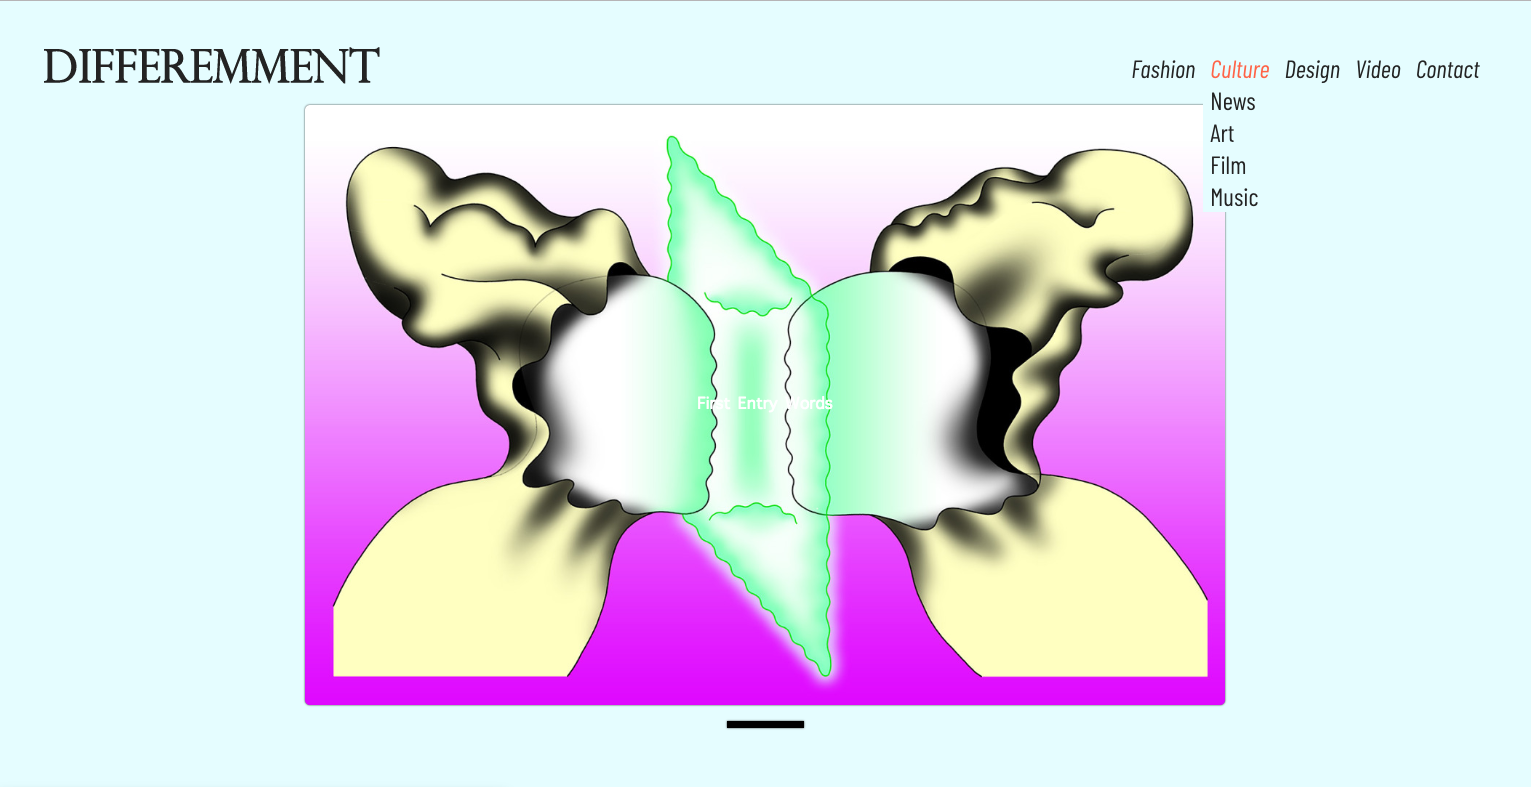
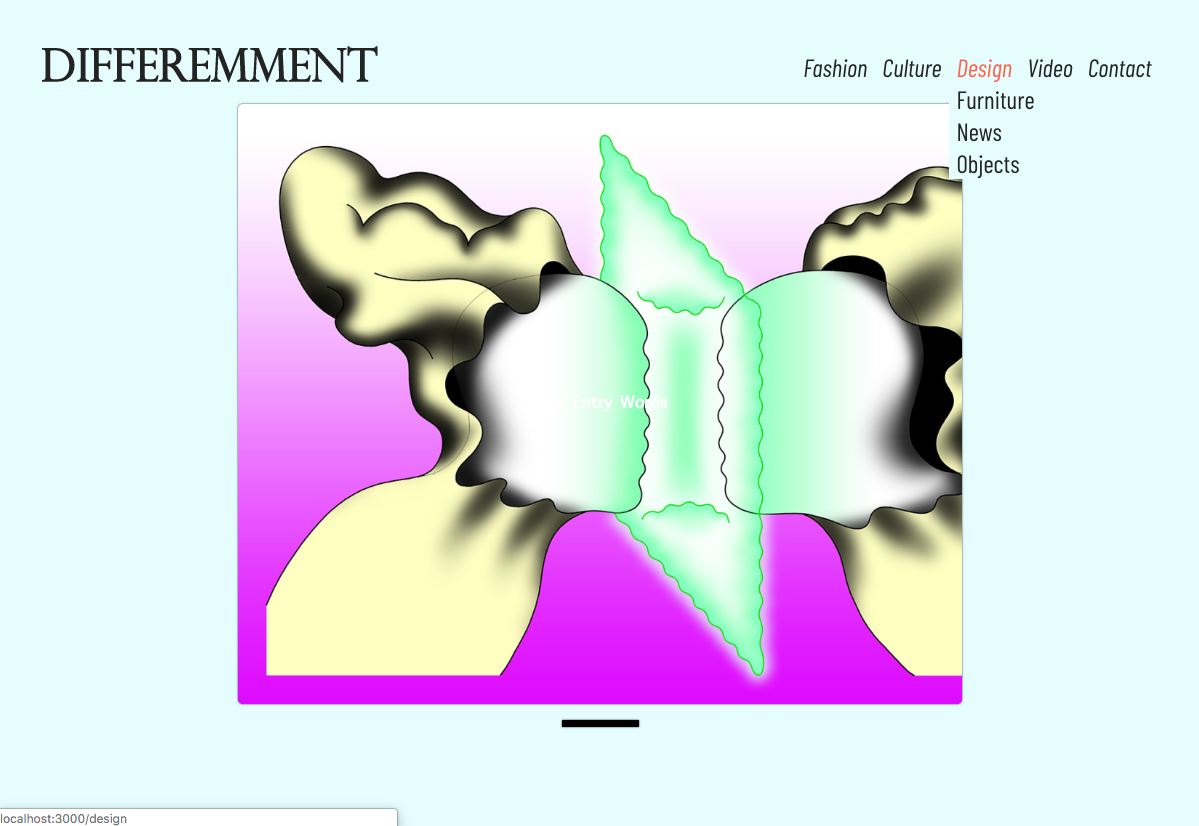
changed image dimensions for mobile view

diff --git a/src/pages/dev.js b/src/pages/dev.js
@@ -18,11 +18,11 @@ const Header = styled.header`
   font-size: 1.7rem;
   color: inherit;
   text-decoration: none;
-  @media (max-width: 800px) {
+  /* @media (max-width: 800px) {
     position: absolute;
     top: 0;
     left: 0;
-  }
+  } */
 `
 const Homelink = styled(props => <Link {...props} />)`
   text-decoration: none;
@@ -108,6 +108,7 @@ const Caption = styled.figcaption`
   -moz-osx-font-smoothing: grayscale;
   @media (max-width: 800px) {
     margin-bottom: 0;
+    padding: 0.5rem;
   }
 `
 
@@ -296,7 +297,7 @@ const dev = () => {
                 D.JASIULEVIČIŪTĖ, APRIL 2019
               </p>
               <StyledLinks href="http://festivaldrift.com">
-                festivaldrift.com
+                festivaldrift.nl
               </StyledLinks>
             </Caption>
           </Wrapper>

diff --git a/src/pages/index.js b/src/pages/index.js
@@ -62,20 +62,21 @@ const Container = styled.div`
 
 const MobTextWrapper = styled.div`
   max-width: 60vw;
-  margin: 10rem auto;
-  display: flex;
+  position: absolute;
+  bottom: 2rem;
   align-items: center;
   justify-content: center;
   background-color: silver;
+  opacity: 0.5;
+  transform: translateX(33%);
+  padding: 0.9rem;
+  border-radius: 5rem;
 `
 
 const MobText = styled.div`
-  line-height: 5rem;
-  margin-top: 4rem;
+  line-height: 3.7rem;
   text-align: center;
-  font-size: 4rem;
-  max-width: 110rem;
-  margin: 0 auto;
+  font-size: 2.5rem;
   -webkit-font-smoothing: antialiased;
   -moz-osx-font-smoothing: grayscale;
   z-index: 2;
